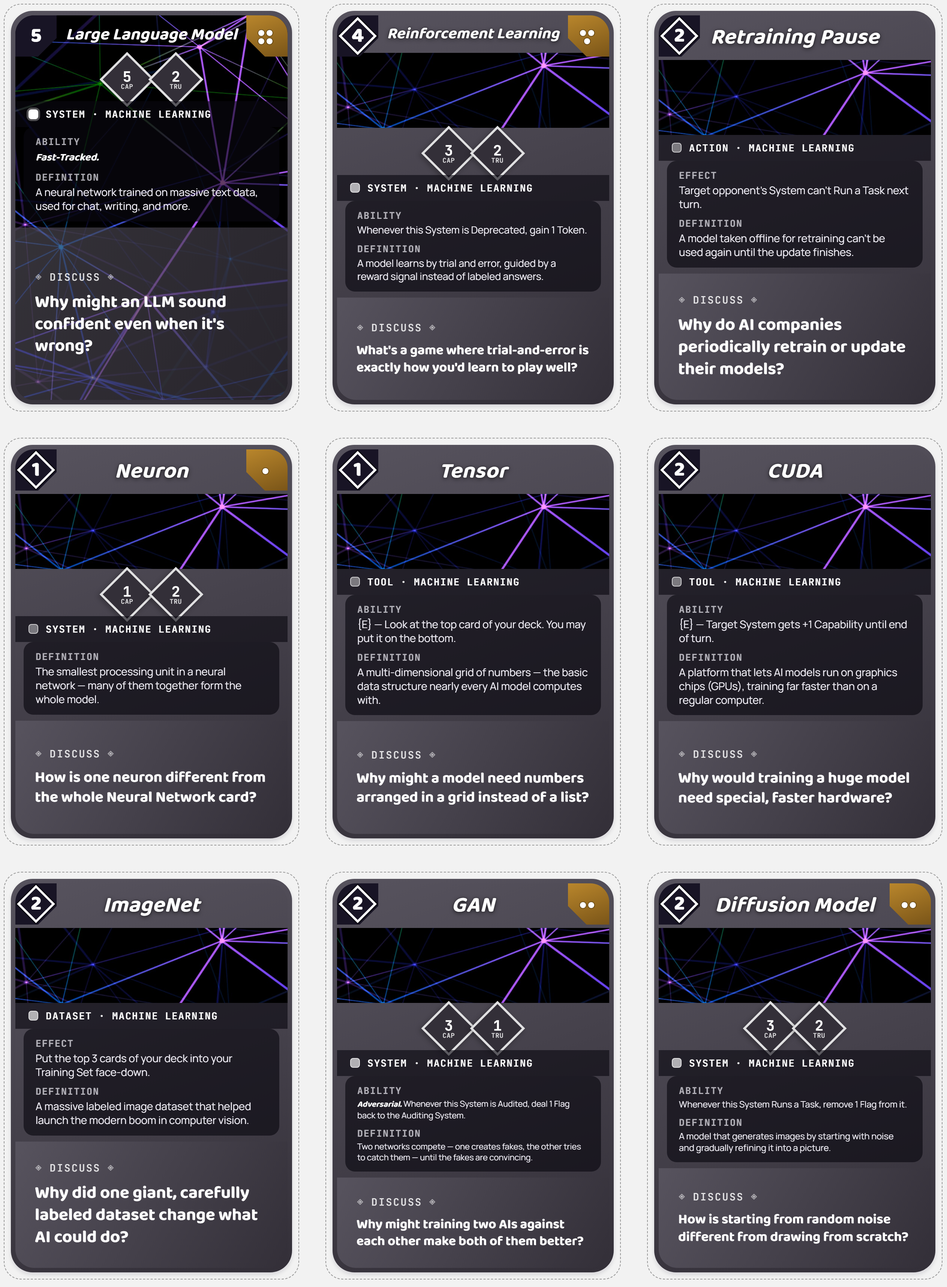
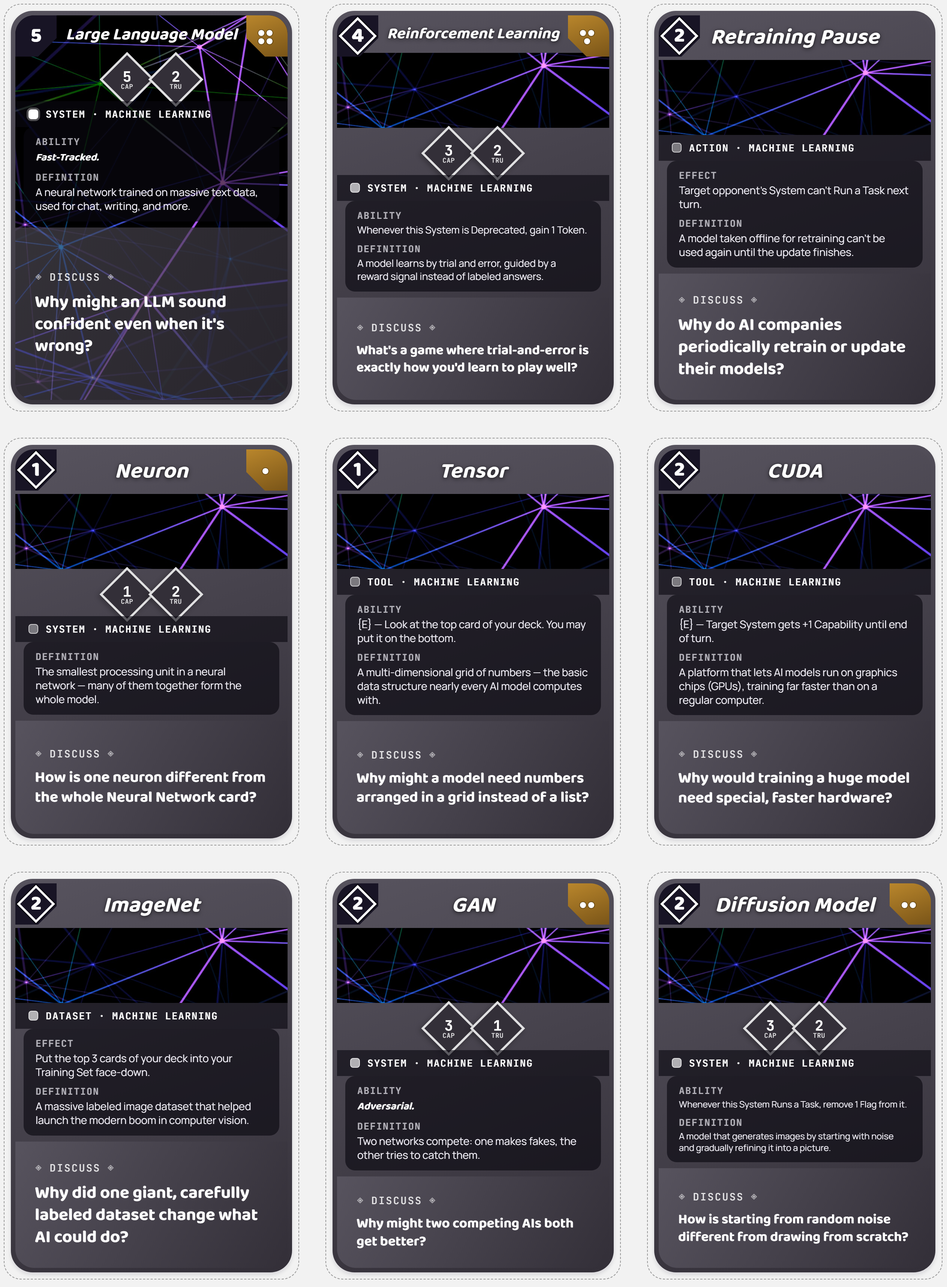
Shorten text on the five cards that had shrunk to 22px
The Human Trainer, GAN, Unsupervised Learning, GPT, and Data Center get
tighter definitions and questions (no rule changes). GAN now shows just
its Adversarial keyword, like other keyword cards; Adversarial is added
to the rulebook's keyword list.

Changed region(s): [[0.3705, 0.8413, 0.6176, 0.9036], [0.3705, 0.9348, 0.6176, 0.9659]]

diff --git a/sample_cards/index.html b/sample_cards/index.html
@@ -218,7 +218,7 @@
   </nav>
   <main class="grid" id="grid">
 <div class="slot" role="button" tabindex="0" data-i="0" data-suit="humans" data-type="System" aria-label="Not Alive: System, Common, cost 1"><div class="scaler"><div class="card humans"><div class="inner"><div class="cost trainable">1</div><div class="tokens" title="1 Tokens"><div class="pips"><div class="dot"></div></div></div><div class="namebar"><h2>Not Alive</h2></div><div class="art-box"></div><div class="statrow"><div class="pip"><div class="in"><div class="n">1</div><div class="l">CAP</div></div></div><div class="pip"><div class="in"><div class="n">3</div><div class="l">TRU</div></div></div></div><div class="typebar"><span class="gem "></span>System · Humans and AI</div><div class="textlines"><div class="tline"><b>Definition</b>AI systems can perform human-like tasks but aren't alive or conscious.</div></div><div class="discuss"><div class="tag">Discuss</div><p>What's one thing a human can do that no card in this deck can?</p></div></div></div></div></div>
-<div class="slot" role="button" tabindex="0" data-i="1" data-suit="humans" data-type="System" aria-label="The Human Trainer: System, Common, cost 2"><div class="scaler"><div class="card humans"><div class="inner"><div class="cost trainable">2</div><div class="tokens" title="2 Tokens"><div class="pips"><div class="dot"></div><div class="dot"></div></div></div><div class="namebar"><h2>The Human Trainer</h2></div><div class="art-box"></div><div class="statrow"><div class="pip"><div class="in"><div class="n">1</div><div class="l">CAP</div></div></div><div class="pip"><div class="in"><div class="n">3</div><div class="l">TRU</div></div></div></div><div class="typebar"><span class="gem "></span>System · Humans and AI</div><div class="textlines"><div class="tline"><b>Ability</b>Whenever this System Runs a Task, you may put the top card of your deck into your Training Set face-down.</div><div class="tline"><b>Definition</b>Humans label data and curate examples that shape how an AI model behaves.</div></div><div class="discuss"><div class="tag">Discuss</div><p>If a labeler makes a mistake, what happens to everything the model learns from it?</p></div></div></div></div></div>
+<div class="slot" role="button" tabindex="0" data-i="1" data-suit="humans" data-type="System" aria-label="The Human Trainer: System, Common, cost 2"><div class="scaler"><div class="card humans"><div class="inner"><div class="cost trainable">2</div><div class="tokens" title="2 Tokens"><div class="pips"><div class="dot"></div><div class="dot"></div></div></div><div class="namebar"><h2>The Human Trainer</h2></div><div class="art-box"></div><div class="statrow"><div class="pip"><div class="in"><div class="n">1</div><div class="l">CAP</div></div></div><div class="pip"><div class="in"><div class="n">3</div><div class="l">TRU</div></div></div></div><div class="typebar"><span class="gem "></span>System · Humans and AI</div><div class="textlines"><div class="tline"><b>Ability</b>Whenever this System Runs a Task, you may put the top card of your deck into your Training Set.</div><div class="tline"><b>Definition</b>Humans label the examples an AI learns from.</div></div><div class="discuss"><div class="tag">Discuss</div><p>If a labeler makes mistakes, what does the model learn?</p></div></div></div></div></div>
 <div class="slot" role="button" tabindex="0" data-i="2" data-suit="humans" data-type="Tool" aria-label="Human-in-the-Loop: Tool, Common, cost 2"><div class="scaler"><div class="card humans"><div class="inner"><div class="cost trainable">2</div><div class="namebar"><h2>Human-in-the-Loop</h2></div><div class="art-box"></div><div class="typebar"><span class="gem "></span>Tool · Humans and AI</div><div class="textlines"><div class="tline"><b>Ability</b>{E} — Remove up to 2 Flags from target System.</div><div class="tline"><b>Definition</b>A design where a human reviews or overrides an automated decision before it takes effect.</div></div><div class="discuss"><div class="tag">Discuss</div><p>Name a task where you'd always want a human to double-check the AI.</p></div></div></div></div></div>
 <div class="slot" role="button" tabindex="0" data-i="3" data-suit="humans" data-type="System" aria-label="Chatbot: System, Common, cost 1"><div class="scaler"><div class="card humans"><div class="inner"><div class="cost trainable">1</div><div class="tokens" title="1 Tokens"><div class="pips"><div class="dot"></div></div></div><div class="namebar"><h2>Chatbot</h2></div><div class="art-box"></div><div class="statrow"><div class="pip"><div class="in"><div class="n">1</div><div class="l">CAP</div></div></div><div class="pip"><div class="in"><div class="n">2</div><div class="l">TRU</div></div></div></div><div class="typebar"><span class="gem "></span>System · Humans and AI</div><div class="textlines"><div class="tline"><b>Definition</b>A conversational agent that talks with people via text or voice.</div></div><div class="discuss"><div class="tag">Discuss</div><p>How can you tell whether you're talking to a chatbot or a real person?</p></div></div></div></div></div>
 <div class="slot" role="button" tabindex="0" data-i="4" data-suit="humans" data-type="System" aria-label="Agent: System, Uncommon, cost 3"><div class="scaler"><div class="card humans"><div class="inner"><div class="cost trainable">3</div><div class="tokens" title="2 Tokens"><div class="pips"><div class="dot"></div><div class="dot"></div></div></div><div class="namebar"><h2>Agent</h2></div><div class="art-box"></div><div class="statrow"><div class="pip"><div class="in"><div class="n">2</div><div class="l">CAP</div></div></div><div class="pip"><div class="in"><div class="n">2</div><div class="l">TRU</div></div></div></div><div class="typebar"><span class="gem uncommon"></span>System · Humans and AI</div><div class="textlines"><div class="tline"><b>Ability</b><span class="kw">Fast-Tracked.</span></div><div class="tline"><b>Definition</b>An AI program that senses its environment, decides, and acts — physical (robot) or software.</div></div><div class="discuss"><div class="tag">Discuss</div><p>What’s the difference between an "agent" and a simple chatbot?</p></div></div></div></div></div>
@@ -251,11 +251,11 @@
 <div class="slot" role="button" tabindex="0" data-i="31" data-suit="ml" data-type="Tool" aria-label="Tensor: Tool, Common, cost 1"><div class="scaler"><div class="card ml"><div class="inner"><div class="cost trainable">1</div><div class="namebar"><h2>Tensor</h2></div><div class="art-box"></div><div class="typebar"><span class="gem "></span>Tool · Machine Learning</div><div class="textlines"><div class="tline"><b>Ability</b>{E} — Look at the top card of your deck. You may put it on the bottom.</div><div class="tline"><b>Definition</b>A multi-dimensional grid of numbers — the basic data structure nearly every AI model computes with.</div></div><div class="discuss"><div class="tag">Discuss</div><p>Why might a model need numbers arranged in a grid instead of a list?</p></div></div></div></div></div>
 <div class="slot" role="button" tabindex="0" data-i="32" data-suit="ml" data-type="Tool" aria-label="CUDA: Tool, Common, cost 2"><div class="scaler"><div class="card ml"><div class="inner"><div class="cost trainable">2</div><div class="namebar"><h2>CUDA</h2></div><div class="art-box"></div><div class="typebar"><span class="gem "></span>Tool · Machine Learning</div><div class="textlines"><div class="tline"><b>Ability</b>{E} — Target System gets +1 Capability until end of turn.</div><div class="tline"><b>Definition</b>A platform that lets AI models run on graphics chips (GPUs), training far faster than on a regular computer.</div></div><div class="discuss"><div class="tag">Discuss</div><p>Why would training a huge model need special, faster hardware?</p></div></div></div></div></div>
 <div class="slot" role="button" tabindex="0" data-i="33" data-suit="ml" data-type="Dataset" aria-label="ImageNet: Dataset, Uncommon, cost 2"><div class="scaler"><div class="card ml"><div class="inner"><div class="cost trainable">2</div><div class="namebar"><h2>ImageNet</h2></div><div class="art-box"></div><div class="typebar"><span class="gem uncommon"></span>Dataset · Machine Learning</div><div class="textlines"><div class="tline"><b>Effect</b>Put the top 3 cards of your deck into your Training Set face-down.</div><div class="tline"><b>Definition</b>A massive labeled image dataset that helped launch the modern boom in computer vision.</div></div><div class="discuss"><div class="tag">Discuss</div><p>Why did one giant, carefully labeled dataset change what AI could do?</p></div></div></div></div></div>
-<div class="slot" role="button" tabindex="0" data-i="34" data-suit="ml" data-type="System" aria-label="GAN: System, Uncommon, cost 2"><div class="scaler"><div class="card ml"><div class="inner"><div class="cost trainable">2</div><div class="tokens" title="2 Tokens"><div class="pips"><div class="dot"></div><div class="dot"></div></div></div><div class="namebar"><h2>GAN</h2></div><div class="art-box"></div><div class="statrow"><div class="pip"><div class="in"><div class="n">3</div><div class="l">CAP</div></div></div><div class="pip"><div class="in"><div class="n">1</div><div class="l">TRU</div></div></div></div><div class="typebar"><span class="gem uncommon"></span>System · Machine Learning</div><div class="textlines"><div class="tline"><b>Ability</b><span class="kw">Adversarial.</span> Whenever this System is Audited, deal 1 Flag back to the Auditing System.</div><div class="tline"><b>Definition</b>Two networks compete — one creates fakes, the other tries to catch them — until the fakes are convincing.</div></div><div class="discuss"><div class="tag">Discuss</div><p>Why might training two AIs against each other make both of them better?</p></div></div></div></div></div>
+<div class="slot" role="button" tabindex="0" data-i="34" data-suit="ml" data-type="System" aria-label="GAN: System, Uncommon, cost 2"><div class="scaler"><div class="card ml"><div class="inner"><div class="cost trainable">2</div><div class="tokens" title="2 Tokens"><div class="pips"><div class="dot"></div><div class="dot"></div></div></div><div class="namebar"><h2>GAN</h2></div><div class="art-box"></div><div class="statrow"><div class="pip"><div class="in"><div class="n">3</div><div class="l">CAP</div></div></div><div class="pip"><div class="in"><div class="n">1</div><div class="l">TRU</div></div></div></div><div class="typebar"><span class="gem uncommon"></span>System · Machine Learning</div><div class="textlines"><div class="tline"><b>Ability</b><span class="kw">Adversarial.</span></div><div class="tline"><b>Definition</b>Two networks compete: one makes fakes, the other tries to catch them.</div></div><div class="discuss"><div class="tag">Discuss</div><p>Why might two competing AIs both get better?</p></div></div></div></div></div>
 <div class="slot" role="button" tabindex="0" data-i="35" data-suit="ml" data-type="System" aria-label="Diffusion Model: System, Uncommon, cost 2"><div class="scaler"><div class="card ml"><div class="inner"><div class="cost trainable">2</div><div class="tokens" title="2 Tokens"><div class="pips"><div class="dot"></div><div class="dot"></div></div></div><div class="namebar"><h2>Diffusion Model</h2></div><div class="art-box"></div><div class="statrow"><div class="pip"><div class="in"><div class="n">3</div><div class="l">CAP</div></div></div><div class="pip"><div class="in"><div class="n">2</div><div class="l">TRU</div></div></div></div><div class="typebar"><span class="gem uncommon"></span>System · Machine Learning</div><div class="textlines"><div class="tline"><b>Ability</b>Whenever this System Runs a Task, remove 1 Flag from it.</div><div class="tline"><b>Definition</b>A model that generates images by starting with noise and gradually refining it into a picture.</div></div><div class="discuss"><div class="tag">Discuss</div><p>How is starting from random noise different from drawing from scratch?</p></div></div></div></div></div>
-<div class="slot" role="button" tabindex="0" data-i="36" data-suit="ml" data-type="System" aria-label="Unsupervised Learning: System, Uncommon, cost 2"><div class="scaler"><div class="card ml"><div class="inner"><div class="cost trainable">2</div><div class="tokens" title="2 Tokens"><div class="pips"><div class="dot"></div><div class="dot"></div></div></div><div class="namebar"><h2>Unsupervised Learning</h2></div><div class="art-box"></div><div class="statrow"><div class="pip"><div class="in"><div class="n">3</div><div class="l">CAP</div></div></div><div class="pip"><div class="in"><div class="n">2</div><div class="l">TRU</div></div></div></div><div class="typebar"><span class="gem uncommon"></span>System · Machine Learning</div><div class="textlines"><div class="tline"><b>Ability</b>Whenever this System Runs a Task, look at the top 2 cards of your deck; you may rearrange them.</div><div class="tline"><b>Definition</b>Training a model to find patterns or groupings in data that was never labeled.</div></div><div class="discuss"><div class="tag">Discuss</div><p>How could a computer group similar things without being told the categories?</p></div></div></div></div></div>
+<div class="slot" role="button" tabindex="0" data-i="36" data-suit="ml" data-type="System" aria-label="Unsupervised Learning: System, Uncommon, cost 2"><div class="scaler"><div class="card ml"><div class="inner"><div class="cost trainable">2</div><div class="tokens" title="2 Tokens"><div class="pips"><div class="dot"></div><div class="dot"></div></div></div><div class="namebar"><h2>Unsupervised Learning</h2></div><div class="art-box"></div><div class="statrow"><div class="pip"><div class="in"><div class="n">3</div><div class="l">CAP</div></div></div><div class="pip"><div class="in"><div class="n">2</div><div class="l">TRU</div></div></div></div><div class="typebar"><span class="gem uncommon"></span>System · Machine Learning</div><div class="textlines"><div class="tline"><b>Ability</b>Whenever this System Runs a Task, look at the top 2 cards of your deck; you may rearrange them.</div><div class="tline"><b>Definition</b>Training a model to find patterns in data with no labels.</div></div><div class="discuss"><div class="tag">Discuss</div><p>How could a computer sort things without being told the categories?</p></div></div></div></div></div>
 <div class="slot" role="button" tabindex="0" data-i="37" data-suit="ml" data-type="System" aria-label="Transformer: System, Rare, cost 4"><div class="scaler"><div class="card ml full-art"><div class="inner"><div class="cost">4</div><div class="tokens" title="3 Tokens"><div class="pips"><div class="dot"></div><div class="dot"></div><div class="dot"></div></div></div><div class="namebar"><h2>Transformer</h2></div><div class="statrow"><div class="pip"><div class="in"><div class="n">4</div><div class="l">CAP</div></div></div><div class="pip"><div class="in"><div class="n">2</div><div class="l">TRU</div></div></div></div><div class="typebar"><span class="gem rare"></span>System · Machine Learning</div><div class="textlines"><div class="tline"><b>Ability</b><span class="kw">Attention.</span> Whenever this System Runs a Task, look at the top 2 cards of your deck; put one into your hand.</div><div class="tline"><b>Definition</b>A neural network design that weighs which parts of the input matter most — the architecture behind most modern LLMs.</div></div><div class="discuss"><div class="tag">Discuss</div><p>Why might "paying attention" to the right words matter for a good answer?</p></div></div></div></div></div>
-<div class="slot" role="button" tabindex="0" data-i="38" data-suit="ml" data-type="System" aria-label="GPT: System, Uncommon, cost 3"><div class="scaler"><div class="card ml"><div class="inner"><div class="cost trainable">3</div><div class="tokens" title="2 Tokens"><div class="pips"><div class="dot"></div><div class="dot"></div></div></div><div class="namebar"><h2>GPT</h2></div><div class="art-box"></div><div class="statrow"><div class="pip"><div class="in"><div class="n">3</div><div class="l">CAP</div></div></div><div class="pip"><div class="in"><div class="n">2</div><div class="l">TRU</div></div></div></div><div class="typebar"><span class="gem uncommon"></span>System · Machine Learning</div><div class="textlines"><div class="tline"><b>Ability</b>Whenever this System Runs a Task, draw a card, then discard a card.</div><div class="tline"><b>Definition</b>Generative Pre-trained Transformer: a large language model trained on huge amounts of text.</div></div><div class="discuss"><div class="tag">Discuss</div><p>Why train a model on huge amounts of text before anyone uses it?</p></div></div></div></div></div>
+<div class="slot" role="button" tabindex="0" data-i="38" data-suit="ml" data-type="System" aria-label="GPT: System, Uncommon, cost 3"><div class="scaler"><div class="card ml"><div class="inner"><div class="cost trainable">3</div><div class="tokens" title="2 Tokens"><div class="pips"><div class="dot"></div><div class="dot"></div></div></div><div class="namebar"><h2>GPT</h2></div><div class="art-box"></div><div class="statrow"><div class="pip"><div class="in"><div class="n">3</div><div class="l">CAP</div></div></div><div class="pip"><div class="in"><div class="n">2</div><div class="l">TRU</div></div></div></div><div class="typebar"><span class="gem uncommon"></span>System · Machine Learning</div><div class="textlines"><div class="tline"><b>Ability</b>Whenever this System Runs a Task, draw a card, then discard a card.</div><div class="tline"><b>Definition</b>An LLM pre-trained on huge amounts of text.</div></div><div class="discuss"><div class="tag">Discuss</div><p>GPT means Generative Pre-trained Transformer. Why pre-train?</p></div></div></div></div></div>
 <div class="slot" role="button" tabindex="0" data-i="39" data-suit="ml" data-type="Tool" aria-label="GPU: Tool, Uncommon, cost 3"><div class="scaler"><div class="card ml"><div class="inner"><div class="cost trainable">3</div><div class="namebar"><h2>GPU</h2></div><div class="art-box"></div><div class="typebar"><span class="gem uncommon"></span>Tool · Machine Learning</div><div class="textlines"><div class="tline"><b>Ability</b>{E} — A System you deployed this turn can Run a Task or Run an Audit this turn.</div><div class="tline"><b>Definition</b>A graphics processing unit: a chip that does thousands of calculations at once, which makes training AI much faster.</div></div><div class="discuss"><div class="tag">Discuss</div><p>Why would a chip built for video games end up powering AI?</p></div></div></div></div></div>
 <div class="slot" role="button" tabindex="0" data-i="40" data-suit="ml" data-type="Tool" aria-label="CPU: Tool, Common, cost 1"><div class="scaler"><div class="card ml"><div class="inner"><div class="cost trainable">1</div><div class="namebar"><h2>CPU</h2></div><div class="art-box"></div><div class="typebar"><span class="gem "></span>Tool · Machine Learning</div><div class="textlines"><div class="tline"><b>Ability</b>{E} — Draw a card, then discard a card.</div><div class="tline"><b>Definition</b>A computer's central processing unit: the general-purpose chip that runs a program's steps one after another.</div></div><div class="discuss"><div class="tag">Discuss</div><p>Why might a general-purpose chip be slower for AI than a specialized one?</p></div></div></div></div></div>
 <div class="slot" role="button" tabindex="0" data-i="41" data-suit="ml" data-type="Tool" aria-label="RAM: Tool, Common, cost 2"><div class="scaler"><div class="card ml"><div class="inner"><div class="cost trainable">2</div><div class="namebar"><h2>RAM</h2></div><div class="art-box"></div><div class="typebar"><span class="gem "></span>Tool · Machine Learning</div><div class="textlines"><div class="tline"><b>Ability</b>{E} — Put an Action card from your discard pile on top of your deck.</div><div class="tline"><b>Definition</b>A computer's short-term memory, holding the data a program is working with right now.</div></div><div class="discuss"><div class="tag">Discuss</div><p>What happens to what's in a computer's memory when the power goes off?</p></div></div></div></div></div>
@@ -276,7 +276,7 @@
 <div class="slot" role="button" tabindex="0" data-i="56" data-suit="impacts" data-type="Action" aria-label="Regulation Debate: Action, Uncommon, cost 2"><div class="scaler"><div class="card impacts"><div class="inner"><div class="cost trainable">2</div><div class="namebar"><h2>Regulation Debate</h2></div><div class="art-box"></div><div class="typebar"><span class="gem uncommon"></span>Action · Societal Impacts</div><div class="textlines"><div class="tline"><b>Effect</b>Choose one: each player may Train an extra card this turn; or target System can’t be Audited this turn.</div><div class="tline"><b>Definition</b>Ongoing public debate over what laws should govern how AI is built and used.</div></div><div class="discuss"><div class="tag">Discuss</div><p>Should there be an age limit on using generative AI tools? Why or why not?</p></div></div></div></div></div>
 <div class="slot" role="button" tabindex="0" data-i="57" data-suit="impacts" data-type="System" aria-label="Digital Divide: System, Rare, cost 3"><div class="scaler"><div class="card impacts full-art"><div class="inner"><div class="cost">3</div><div class="tokens" title="3 Tokens"><div class="pips"><div class="dot"></div><div class="dot"></div><div class="dot"></div></div></div><div class="namebar"><h2>Digital Divide</h2></div><div class="statrow"><div class="pip"><div class="in"><div class="n">1</div><div class="l">CAP</div></div></div><div class="pip"><div class="in"><div class="n">3</div><div class="l">TRU</div></div></div></div><div class="typebar"><span class="gem rare"></span>System · Societal Impacts</div><div class="textlines"><div class="tline"><b>Ability</b>This System's Tokens can't be reduced by opponents' abilities.</div><div class="tline"><b>Definition</b>Unequal access to AI tools and AI education across different communities.</div></div><div class="discuss"><div class="tag">Discuss</div><p>If AI tools cost money, who might get left behind?</p></div></div></div></div></div>
 <div class="slot" role="button" tabindex="0" data-i="58" data-suit="impacts" data-type="Action" aria-label="Cognitive Offload: Action, Common, cost 1"><div class="scaler"><div class="card impacts"><div class="inner"><div class="cost trainable">1</div><div class="namebar"><h2>Cognitive Offload</h2></div><div class="art-box"></div><div class="typebar"><span class="gem "></span>Action · Societal Impacts</div><div class="textlines"><div class="tline"><b>Effect</b>Draw a card, then discard a card.</div><div class="tline"><b>Definition</b>Relying on AI to think, remember, or decide for you — convenient, but a skill you may stop practicing.</div></div><div class="discuss"><div class="tag">Discuss</div><p>What's something you'd lose if you let AI always do it for you?</p></div></div></div></div></div>
-<div class="slot" role="button" tabindex="0" data-i="59" data-suit="impacts" data-type="System" aria-label="Data Center: System, Uncommon, cost 3"><div class="scaler"><div class="card impacts"><div class="inner"><div class="cost trainable">3</div><div class="tokens" title="3 Tokens"><div class="pips"><div class="dot"></div><div class="dot"></div><div class="dot"></div></div></div><div class="namebar"><h2>Data Center</h2></div><div class="art-box"></div><div class="statrow"><div class="pip"><div class="in"><div class="n">2</div><div class="l">CAP</div></div></div><div class="pip"><div class="in"><div class="n">3</div><div class="l">TRU</div></div></div></div><div class="typebar"><span class="gem uncommon"></span>System · Societal Impacts</div><div class="textlines"><div class="tline"><b>Ability</b>Whenever this System Runs a Task, discard the top card of your Training Set.</div><div class="tline"><b>Definition</b>A huge building of computers that runs AI, using lots of power and water.</div></div><div class="discuss"><div class="tag">Discuss</div><p>Should a town welcome a data center that uses a lot of its water?</p></div></div></div></div></div>
+<div class="slot" role="button" tabindex="0" data-i="59" data-suit="impacts" data-type="System" aria-label="Data Center: System, Uncommon, cost 3"><div class="scaler"><div class="card impacts"><div class="inner"><div class="cost trainable">3</div><div class="tokens" title="3 Tokens"><div class="pips"><div class="dot"></div><div class="dot"></div><div class="dot"></div></div></div><div class="namebar"><h2>Data Center</h2></div><div class="art-box"></div><div class="statrow"><div class="pip"><div class="in"><div class="n">2</div><div class="l">CAP</div></div></div><div class="pip"><div class="in"><div class="n">3</div><div class="l">TRU</div></div></div></div><div class="typebar"><span class="gem uncommon"></span>System · Societal Impacts</div><div class="textlines"><div class="tline"><b>Ability</b>Whenever this System Runs a Task, discard the top card of your Training Set.</div><div class="tline"><b>Definition</b>A building full of computers that run AI.</div></div><div class="discuss"><div class="tag">Discuss</div><p>Should towns welcome data centers that use lots of water?</p></div></div></div></div></div>
     <p class="empty" id="empty" hidden>No cards match both filters. Choose a different color or type.</p>
   </main>
   <footer>Pilot set, 60 cards. Stats are still being tuned through playtesting, so costs and numbers may change before the cards are printed.</footer>

diff --git a/design/print-sheet-source.html b/design/print-sheet-source.html
@@ -184,10 +184,10 @@
       </div>
       <div class="typebar"><span class="gem "></span>System · Humans and AI</div>
       <div class="textlines">
-        <div class="tline"><b>Ability</b>Whenever this System Runs a Task, you may put the top card of your deck into your Training Set face-down.</div>
-        <div class="tline"><b>Definition</b>Humans label data and curate examples that shape how an AI model behaves.</div>
+        <div class="tline"><b>Ability</b>Whenever this System Runs a Task, you may put the top card of your deck into your Training Set.</div>
+        <div class="tline"><b>Definition</b>Humans label the examples an AI learns from.</div>
       </div>
-      <div class="discuss"><div class="tag">Discuss</div><p>If a labeler makes a mistake, what happens to everything the model learns from it?</p></div>
+      <div class="discuss"><div class="tag">Discuss</div><p>If a labeler makes mistakes, what does the model learn?</p></div>
     </div></div></div>
 
     <div class="cutwrap"><div class="card humans"><div class="inner">
@@ -687,10 +687,10 @@
       </div>
       <div class="typebar"><span class="gem uncommon"></span>System · Machine Learning</div>
       <div class="textlines">
-        <div class="tline"><b>Ability</b><span class="kw">Adversarial.</span> Whenever this System is Audited, deal 1 Flag back to the Auditing System.</div>
-        <div class="tline"><b>Definition</b>Two networks compete — one creates fakes, the other tries to catch them — until the fakes are convincing.</div>
+        <div class="tline"><b>Ability</b><span class="kw">Adversarial.</span></div>
+        <div class="tline"><b>Definition</b>Two networks compete: one makes fakes, the other tries to catch them.</div>
       </div>
-      <div class="discuss"><div class="tag">Discuss</div><p>Why might training two AIs against each other make both of them better?</p></div>
+      <div class="discuss"><div class="tag">Discuss</div><p>Why might two competing AIs both get better?</p></div>
     </div></div></div>
 
     <div class="cutwrap"><div class="card ml"><div class="inner">
@@ -724,9 +724,9 @@
       <div class="typebar"><span class="gem uncommon"></span>System · Machine Learning</div>
       <div class="textlines">
         <div class="tline"><b>Ability</b>Whenever this System Runs a Task, look at the top 2 cards of your deck; you may rearrange them.</div>
-        <div class="tline"><b>Definition</b>Training a model to find patterns or groupings in data that was never labeled.</div>
+        <div class="tline"><b>Definition</b>Training a model to find patterns in data with no labels.</div>
       </div>
-      <div class="discuss"><div class="tag">Discuss</div><p>How could a computer group similar things without being told the categories?</p></div>
+      <div class="discuss"><div class="tag">Discuss</div><p>How could a computer sort things without being told the categories?</p></div>
     </div></div></div>
 
     <div class="cutwrap"><div class="card ml full-art"><div class="inner">
@@ -757,9 +757,9 @@
       <div class="typebar"><span class="gem uncommon"></span>System · Machine Learning</div>
       <div class="textlines">
         <div class="tline"><b>Ability</b>Whenever this System Runs a Task, draw a card, then discard a card.</div>
-        <div class="tline"><b>Definition</b>Generative Pre-trained Transformer: a large language model trained on huge amounts of text.</div>
+        <div class="tline"><b>Definition</b>An LLM pre-trained on huge amounts of text.</div>
       </div>
-      <div class="discuss"><div class="tag">Discuss</div><p>Why train a model on huge amounts of text before anyone uses it?</p></div>
+      <div class="discuss"><div class="tag">Discuss</div><p>GPT means Generative Pre-trained Transformer. Why pre-train?</p></div>
     </div></div></div>
   </div>
 
@@ -1060,9 +1060,9 @@
       <div class="typebar"><span class="gem uncommon"></span>System · Societal Impacts</div>
       <div class="textlines">
         <div class="tline"><b>Ability</b>Whenever this System Runs a Task, discard the top card of your Training Set.</div>
-        <div class="tline"><b>Definition</b>A huge building of computers that runs AI, using lots of power and water.</div>
+        <div class="tline"><b>Definition</b>A building full of computers that run AI.</div>
       </div>
-      <div class="discuss"><div class="tag">Discuss</div><p>Should a town welcome a data center that uses a lot of its water?</p></div>
+      <div class="discuss"><div class="tag">Discuss</div><p>Should towns welcome data centers that use lots of water?</p></div>
     </div></div></div>
   </div>
 

diff --git a/design/pilot-deck-60-cards.md b/design/pilot-deck-60-cards.md
@@ -11,7 +11,7 @@ No source citations here on the student-facing content — see the **Teacher ref
 | Card | Type | Rarity | Cost \| Cap/Trust/Tokens | Ability | Definition | Discussion question |
 |---|---|---|---|---|---|---|
 | Not Alive | System | C | 1 \| 1/3/1 | — | AI systems can perform human-like tasks but aren't alive or conscious. | What's one thing a human can do that no card in this deck can? |
-| The Human Trainer | System | C | 2 \| 1/3/2 | Whenever this System Runs a Task, you may put the top card of your deck into your Training Set face-down. | Humans label data and curate examples that shape how an AI model behaves. | If a labeler makes a mistake, what happens to everything the model learns from it? |
+| The Human Trainer | System | C | 2 \| 1/3/2 | Whenever this System Runs a Task, you may put the top card of your deck into your Training Set. | Humans label the examples an AI learns from. | If a labeler makes mistakes, what does the model learn? |
 | Human-in-the-Loop | Tool | C | 2 | {E} — Remove up to 2 Flags from target System. | A design where a human reviews or overrides an automated decision before it takes effect. | Name a task where you'd always want a human to double-check the AI. |
 | Chatbot | System | C | 1 \| 1/2/1 | — | A conversational agent that talks with people via text or voice. | How can you tell whether you're talking to a chatbot or a real person? |
 | Agent | System | U | 3 \| 2/2/2 | **Fast-Tracked.** | An AI program that senses its environment, decides, and acts — physical (robot) or software. | What's the difference between an "agent" and a simple chatbot? |
@@ -54,11 +54,11 @@ No source citations here on the student-facing content — see the **Teacher ref
 | Tensor | Tool | C | 1 | {E} — Look at the top card of your deck. You may put it on the bottom. | A multi-dimensional grid of numbers — the basic data structure nearly every AI model computes with. | Why might a model need numbers arranged in a grid instead of a list? |
 | CUDA | Tool | C | 2 | {E} — Target System gets +1 Capability until end of turn. | A platform that lets AI models run on graphics chips (GPUs), training far faster than on a regular computer. | Why would training a huge model need special, faster hardware? |
 | ImageNet | Dataset | U | 2 (or free: exert a Cost-3+ System) | Put the top 3 cards of your deck into your Training Set face-down. | A massive labeled image dataset that helped launch the modern boom in computer vision. | Why did one giant, carefully labeled dataset change what AI could do? |
-| GAN | System | U | 2 \| 3/1/2 | **Adversarial.** Whenever this System is Audited, deal 1 Flag back to the Auditing System. | Two networks compete — one creates fakes, the other tries to catch them — until the fakes are convincing. | Why might training two AIs against each other make both of them better? |
+| GAN | System | U | 2 \| 3/1/2 | **Adversarial.** | Two networks compete: one makes fakes, the other tries to catch them. | Why might two competing AIs both get better? |
 | Diffusion Model | System | U | 2 \| 3/2/2 | Whenever this System Runs a Task, remove 1 Flag from it. | A model that generates images by starting with noise and gradually refining it into a picture. | How is starting from random noise different from drawing from scratch? |
-| Unsupervised Learning | System | U | 2 \| 3/2/2 | Whenever this System Runs a Task, look at the top 2 cards of your deck; you may rearrange them. | Training a model to find patterns or groupings in data that was never labeled. | How could a computer group similar things without being told the categories? |
+| Unsupervised Learning | System | U | 2 \| 3/2/2 | Whenever this System Runs a Task, look at the top 2 cards of your deck; you may rearrange them. | Training a model to find patterns in data with no labels. | How could a computer sort things without being told the categories? |
 | Transformer | System | R | 4 \| 4/2/3 | **Attention.** Whenever this System Runs a Task, look at the top 2 cards of your deck; put one into your hand. | A neural network design that weighs which parts of the input matter most — the architecture behind most modern LLMs. | Why might "paying attention" to the right words matter for a good answer? |
-| GPT | System | U | 3 \| 3/2/2 | Whenever this System Runs a Task, draw a card, then discard a card. | Generative Pre-trained Transformer: a large language model trained on huge amounts of text. | Why train a model on huge amounts of text before anyone uses it? |
+| GPT | System | U | 3 \| 3/2/2 | Whenever this System Runs a Task, draw a card, then discard a card. | An LLM pre-trained on huge amounts of text. | GPT means Generative Pre-trained Transformer. Why pre-train? |
 | GPU | Tool | U | 3 | {E} — A System you deployed this turn can Run a Task or Run an Audit this turn. | A graphics processing unit: a chip that does thousands of calculations at once, which makes training AI much faster. | Why would a chip built for video games end up powering AI? |
 | CPU | Tool | C | 1 | {E} — Draw a card, then discard a card. | A computer's central processing unit: the general-purpose chip that runs a program's steps one after another. | Why might a general-purpose chip be slower for AI than a specialized one? |
 | RAM | Tool | C | 2 | {E} — Put an Action card from your discard pile on top of your deck. | A computer's short-term memory, holding the data a program is working with right now. | What happens to what's in a computer's memory when the power goes off? |
@@ -89,7 +89,7 @@ No source citations here on the student-facing content — see the **Teacher ref
 | Regulation Debate | Action | U | 2 | Choose one: each player may Train an extra card this turn; or target System can't be Audited this turn. | Ongoing public debate over what laws should govern how AI is built and used. | Should there be an age limit on using generative AI tools? Why or why not? |
 | Digital Divide | System | R | 3 \| 1/3/3 | This System's Tokens can't be reduced by opponents' abilities. | Unequal access to AI tools and AI education across different communities. | If AI tools cost money, who might get left behind? |
 | Cognitive Offload | Action | C | 1 | Draw a card, then discard a card. | Relying on AI to think, remember, or decide for you — convenient, but a skill you may stop practicing. | What's something you'd lose if you let AI always do it for you? |
-| Data Center | System | U | 3 \| 2/3/3 | Whenever this System Runs a Task, discard the top card of your Training Set. | A huge building of computers that runs AI, using lots of power and water. | Should a town welcome a data center that uses a lot of its water? |
+| Data Center | System | U | 3 \| 2/3/3 | Whenever this System Runs a Task, discard the top card of your Training Set. | A building full of computers that run AI. | Should towns welcome data centers that use lots of water? |
 
 ## Deck totals
 

diff --git a/design/GAME_CONCEPT.md b/design/GAME_CONCEPT.md
@@ -113,6 +113,7 @@ First player to reach a target Token count wins. Suggested target for the pilot'
 ## Keyword abilities (starter set — more will emerge as we design more cards)
 
 - **Fast-Tracked** — this System can Run a Task or Run an Audit the same turn it's deployed. (Machine Learning flavor: an agent that acts autonomously from the start.)
+- **Adversarial** — whenever this System is Audited, it deals 1 Flag back to the Auditing System, on top of the normal damage exchange. (Machine Learning flavor: a GAN is trained by fighting back.)
 - **Highly Trusted** — this System can't be Audited by a System with lower Trust than its own. (Renamed from "Audited" so the keyword isn't confused with the Run an Audit action. It's a keyword, not the same as having a Trust stat — every System has Trust, but only cards that say "Highly Trusted" get this rule.) (Ethical AI Design flavor: a well-vetted system is hard to challenge unfairly.)
 - **Transparent** — when this System would be Deprecated, its controller may first look at the top card of their deck and draw it if it's a Tool. (Societal Impacts flavor: openness about failure still has value.)
 
